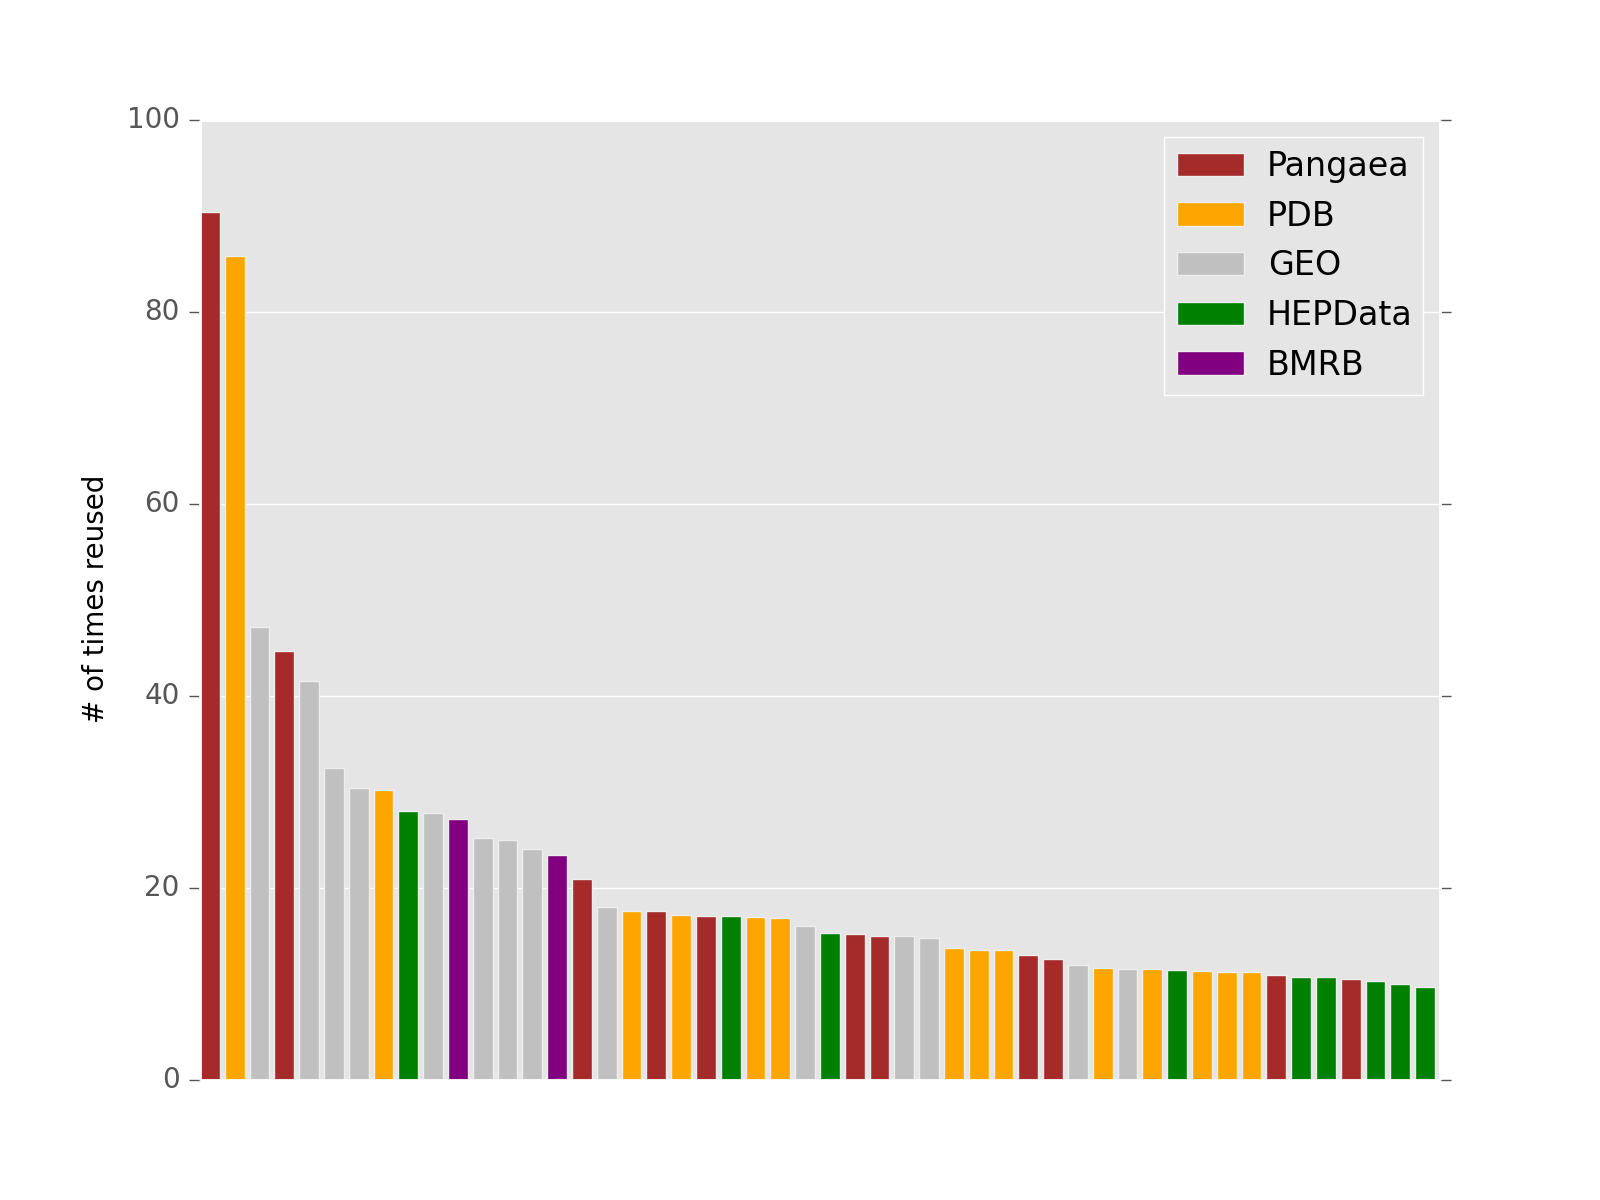
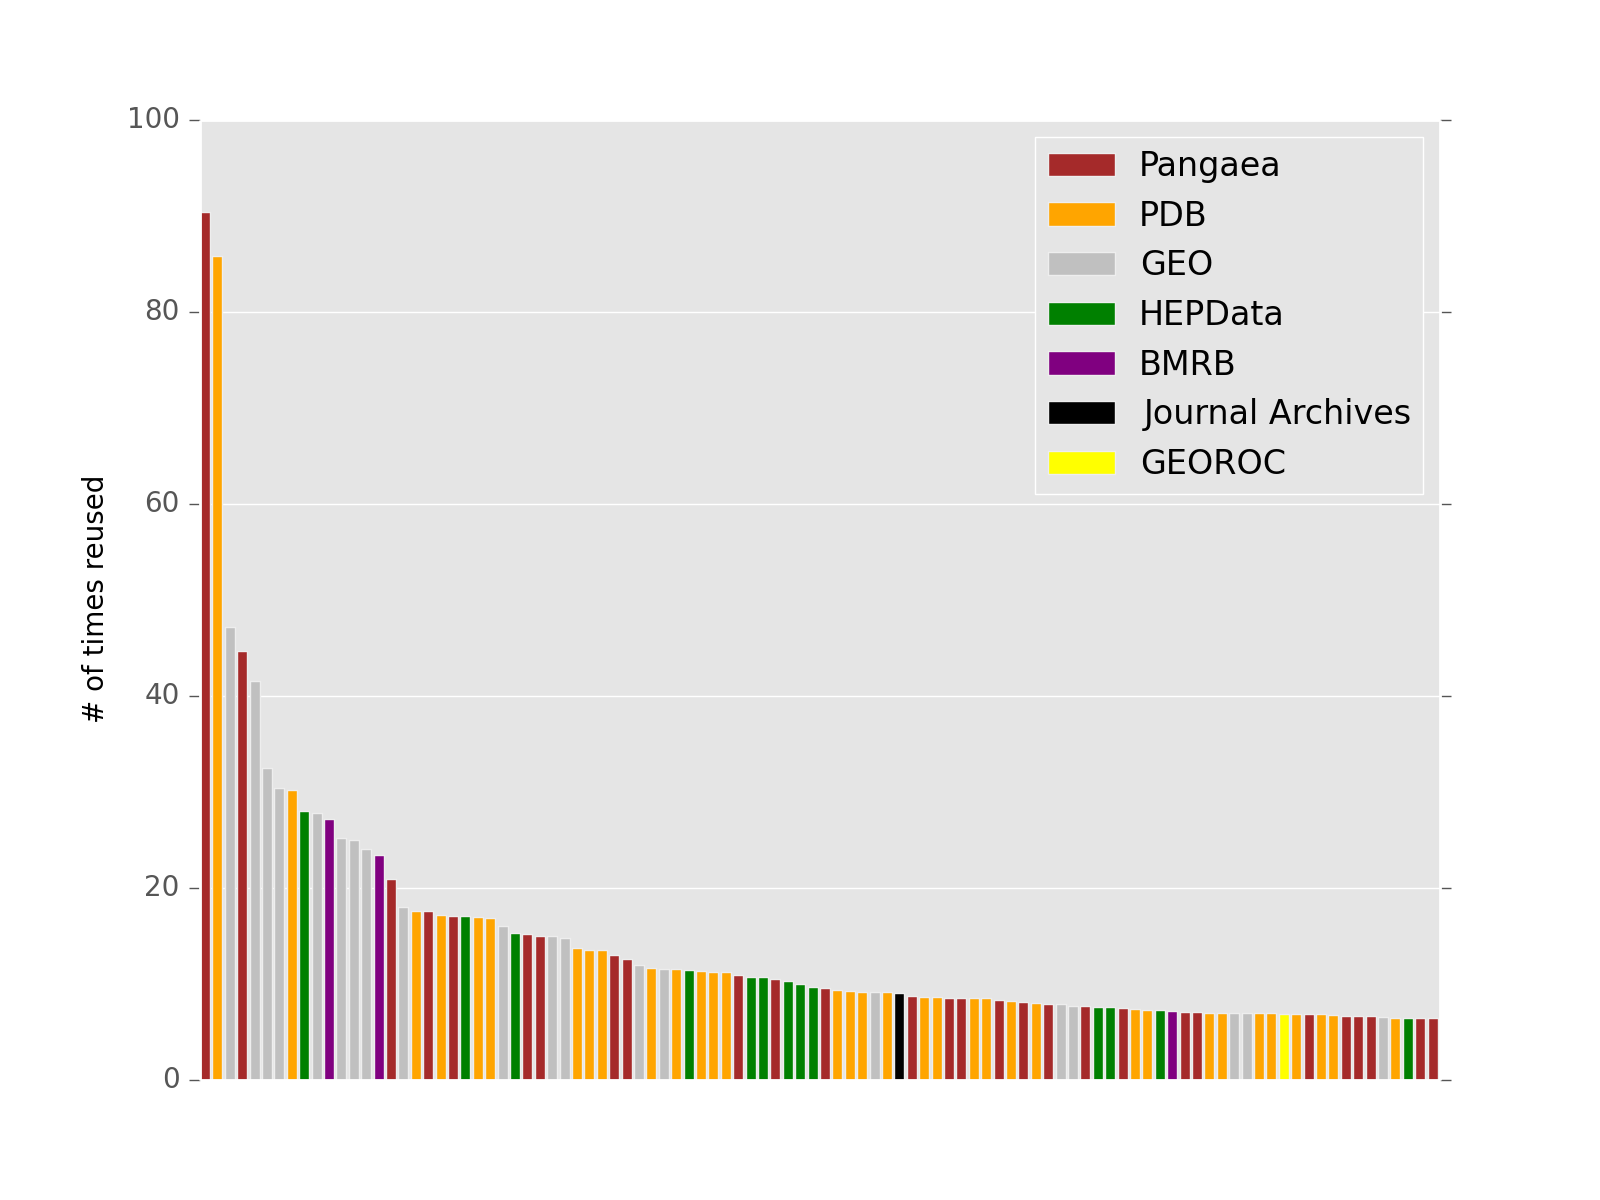
Updating most reused datasets figure to show 100.

Changed region(s): [[0.125, 0.185, 0.9062, 0.925], [0.6562, 0.1233, 0.875, 0.4008]]

diff --git a/scripts/most_cited_datasets.py b/scripts/most_cited_datasets.py
@@ -14,7 +14,7 @@ if __name__ == '__main__':
     from canonical_repo_names import colors
 
 
-    DATASETS = 50
+    DATASETS = 100
 
     font = FontProperties()
     font.set_size('medium')
